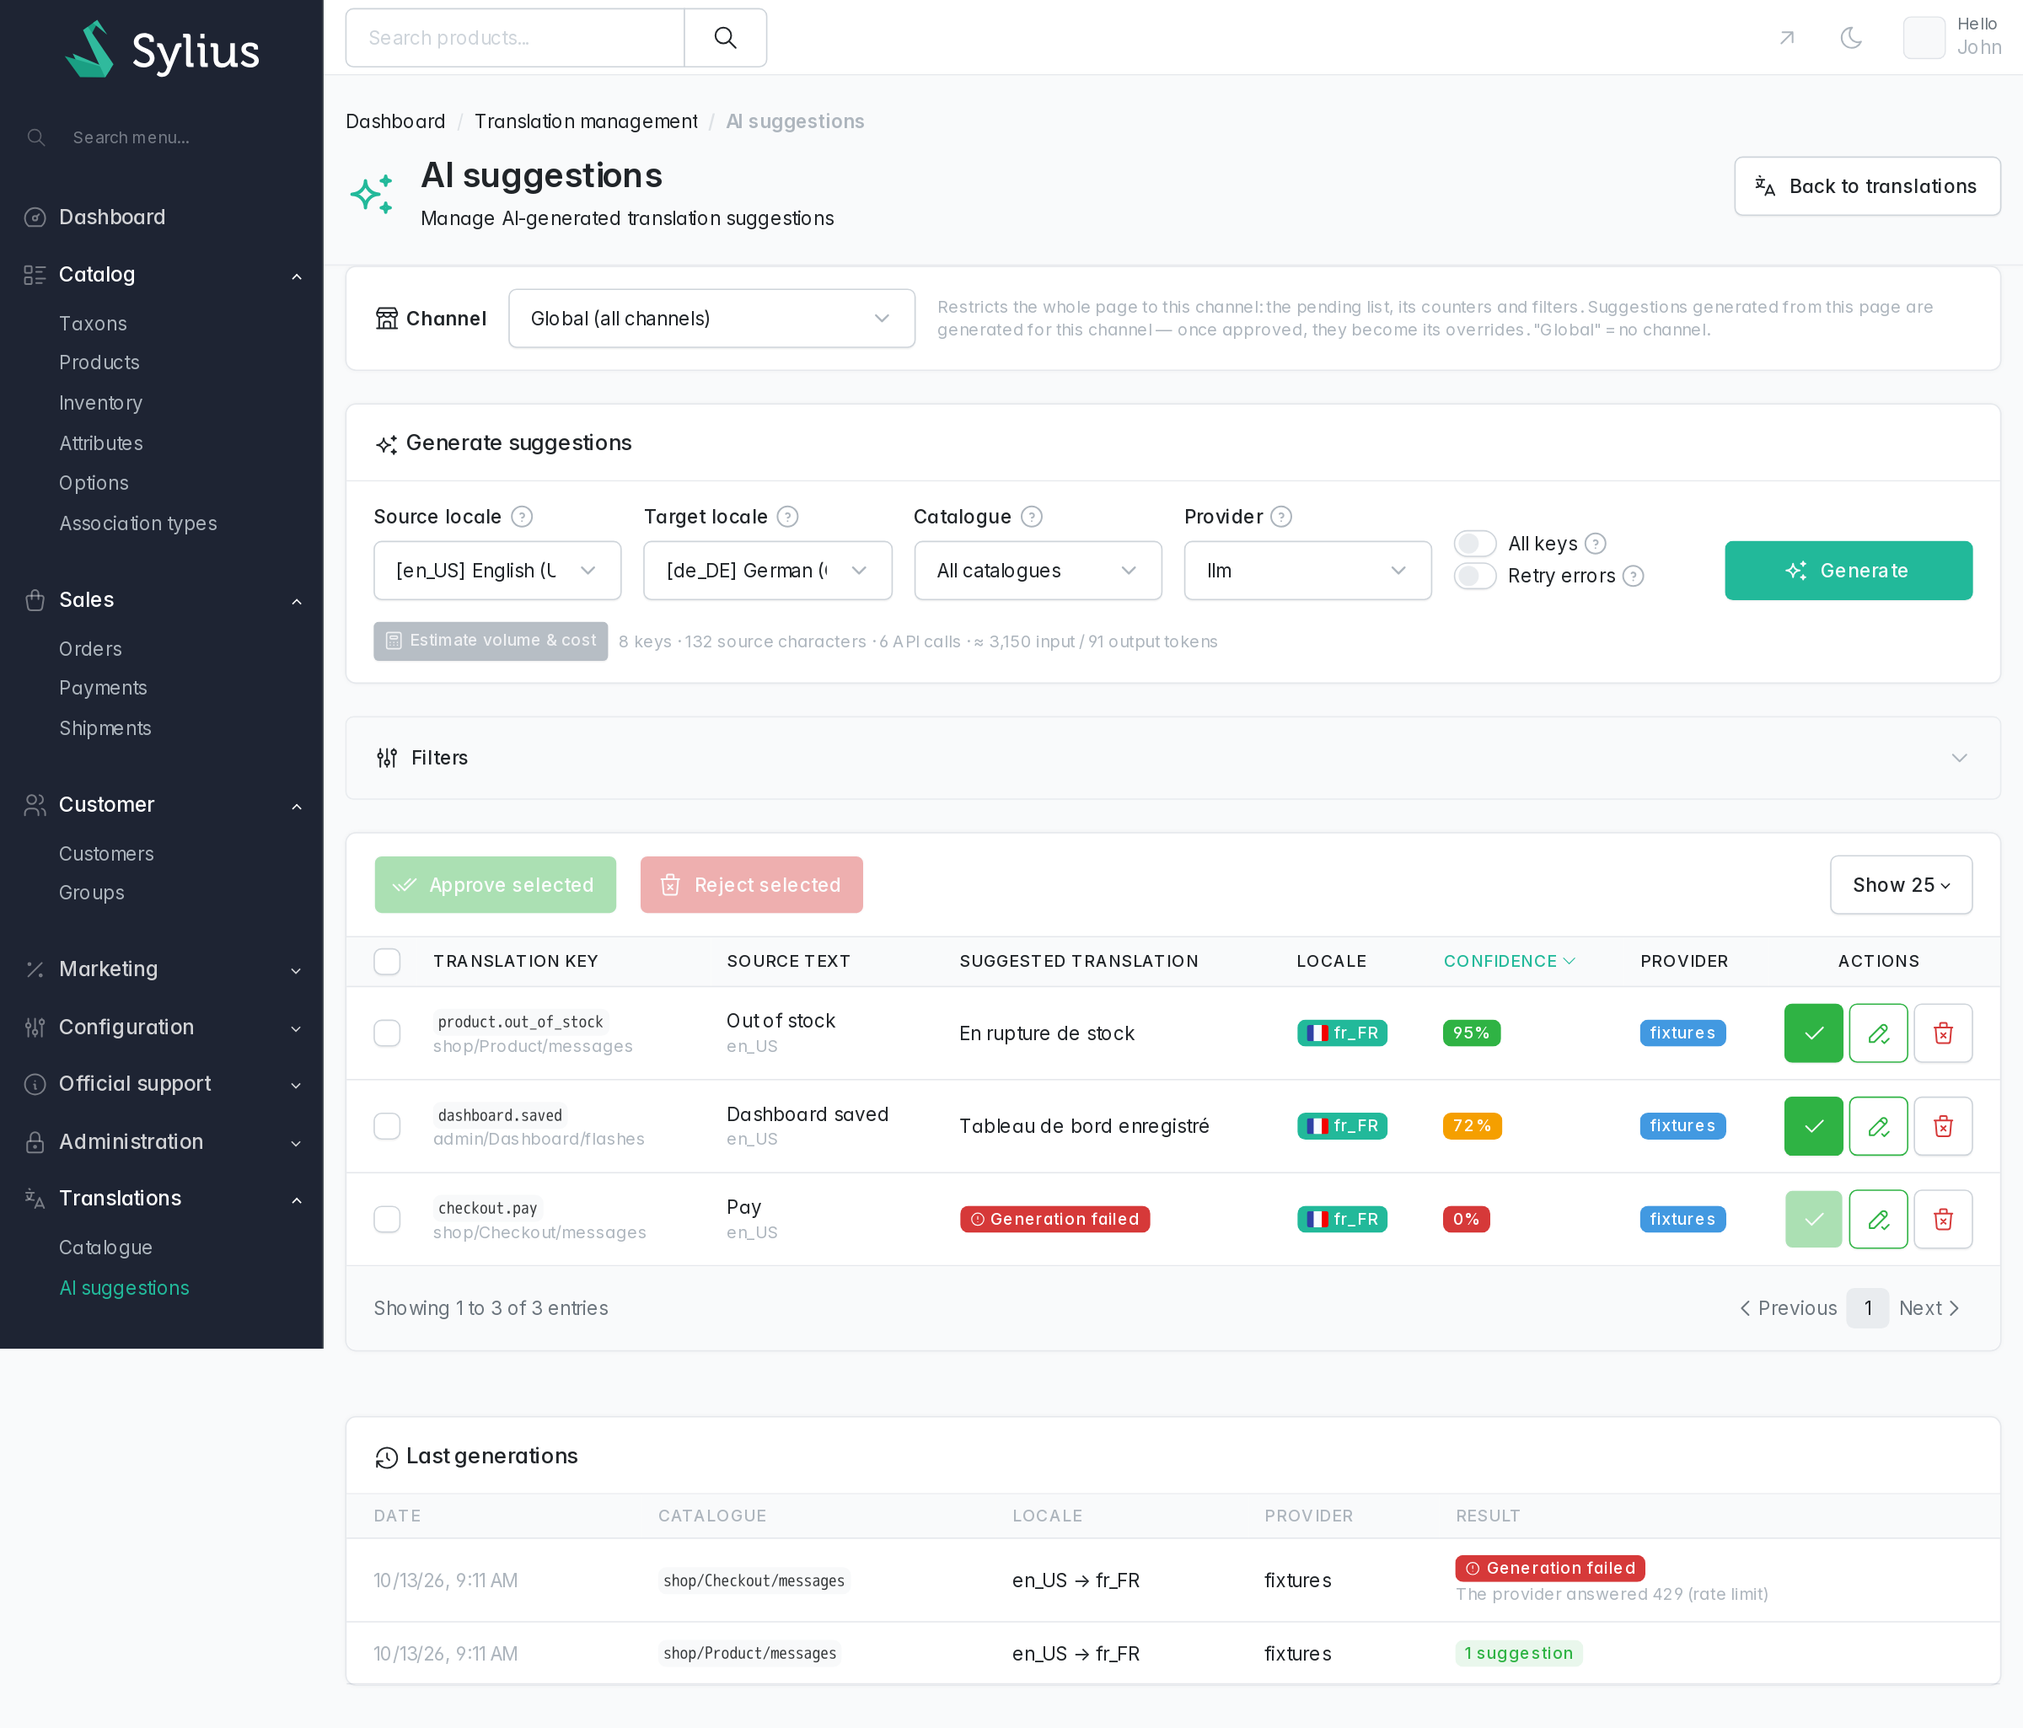
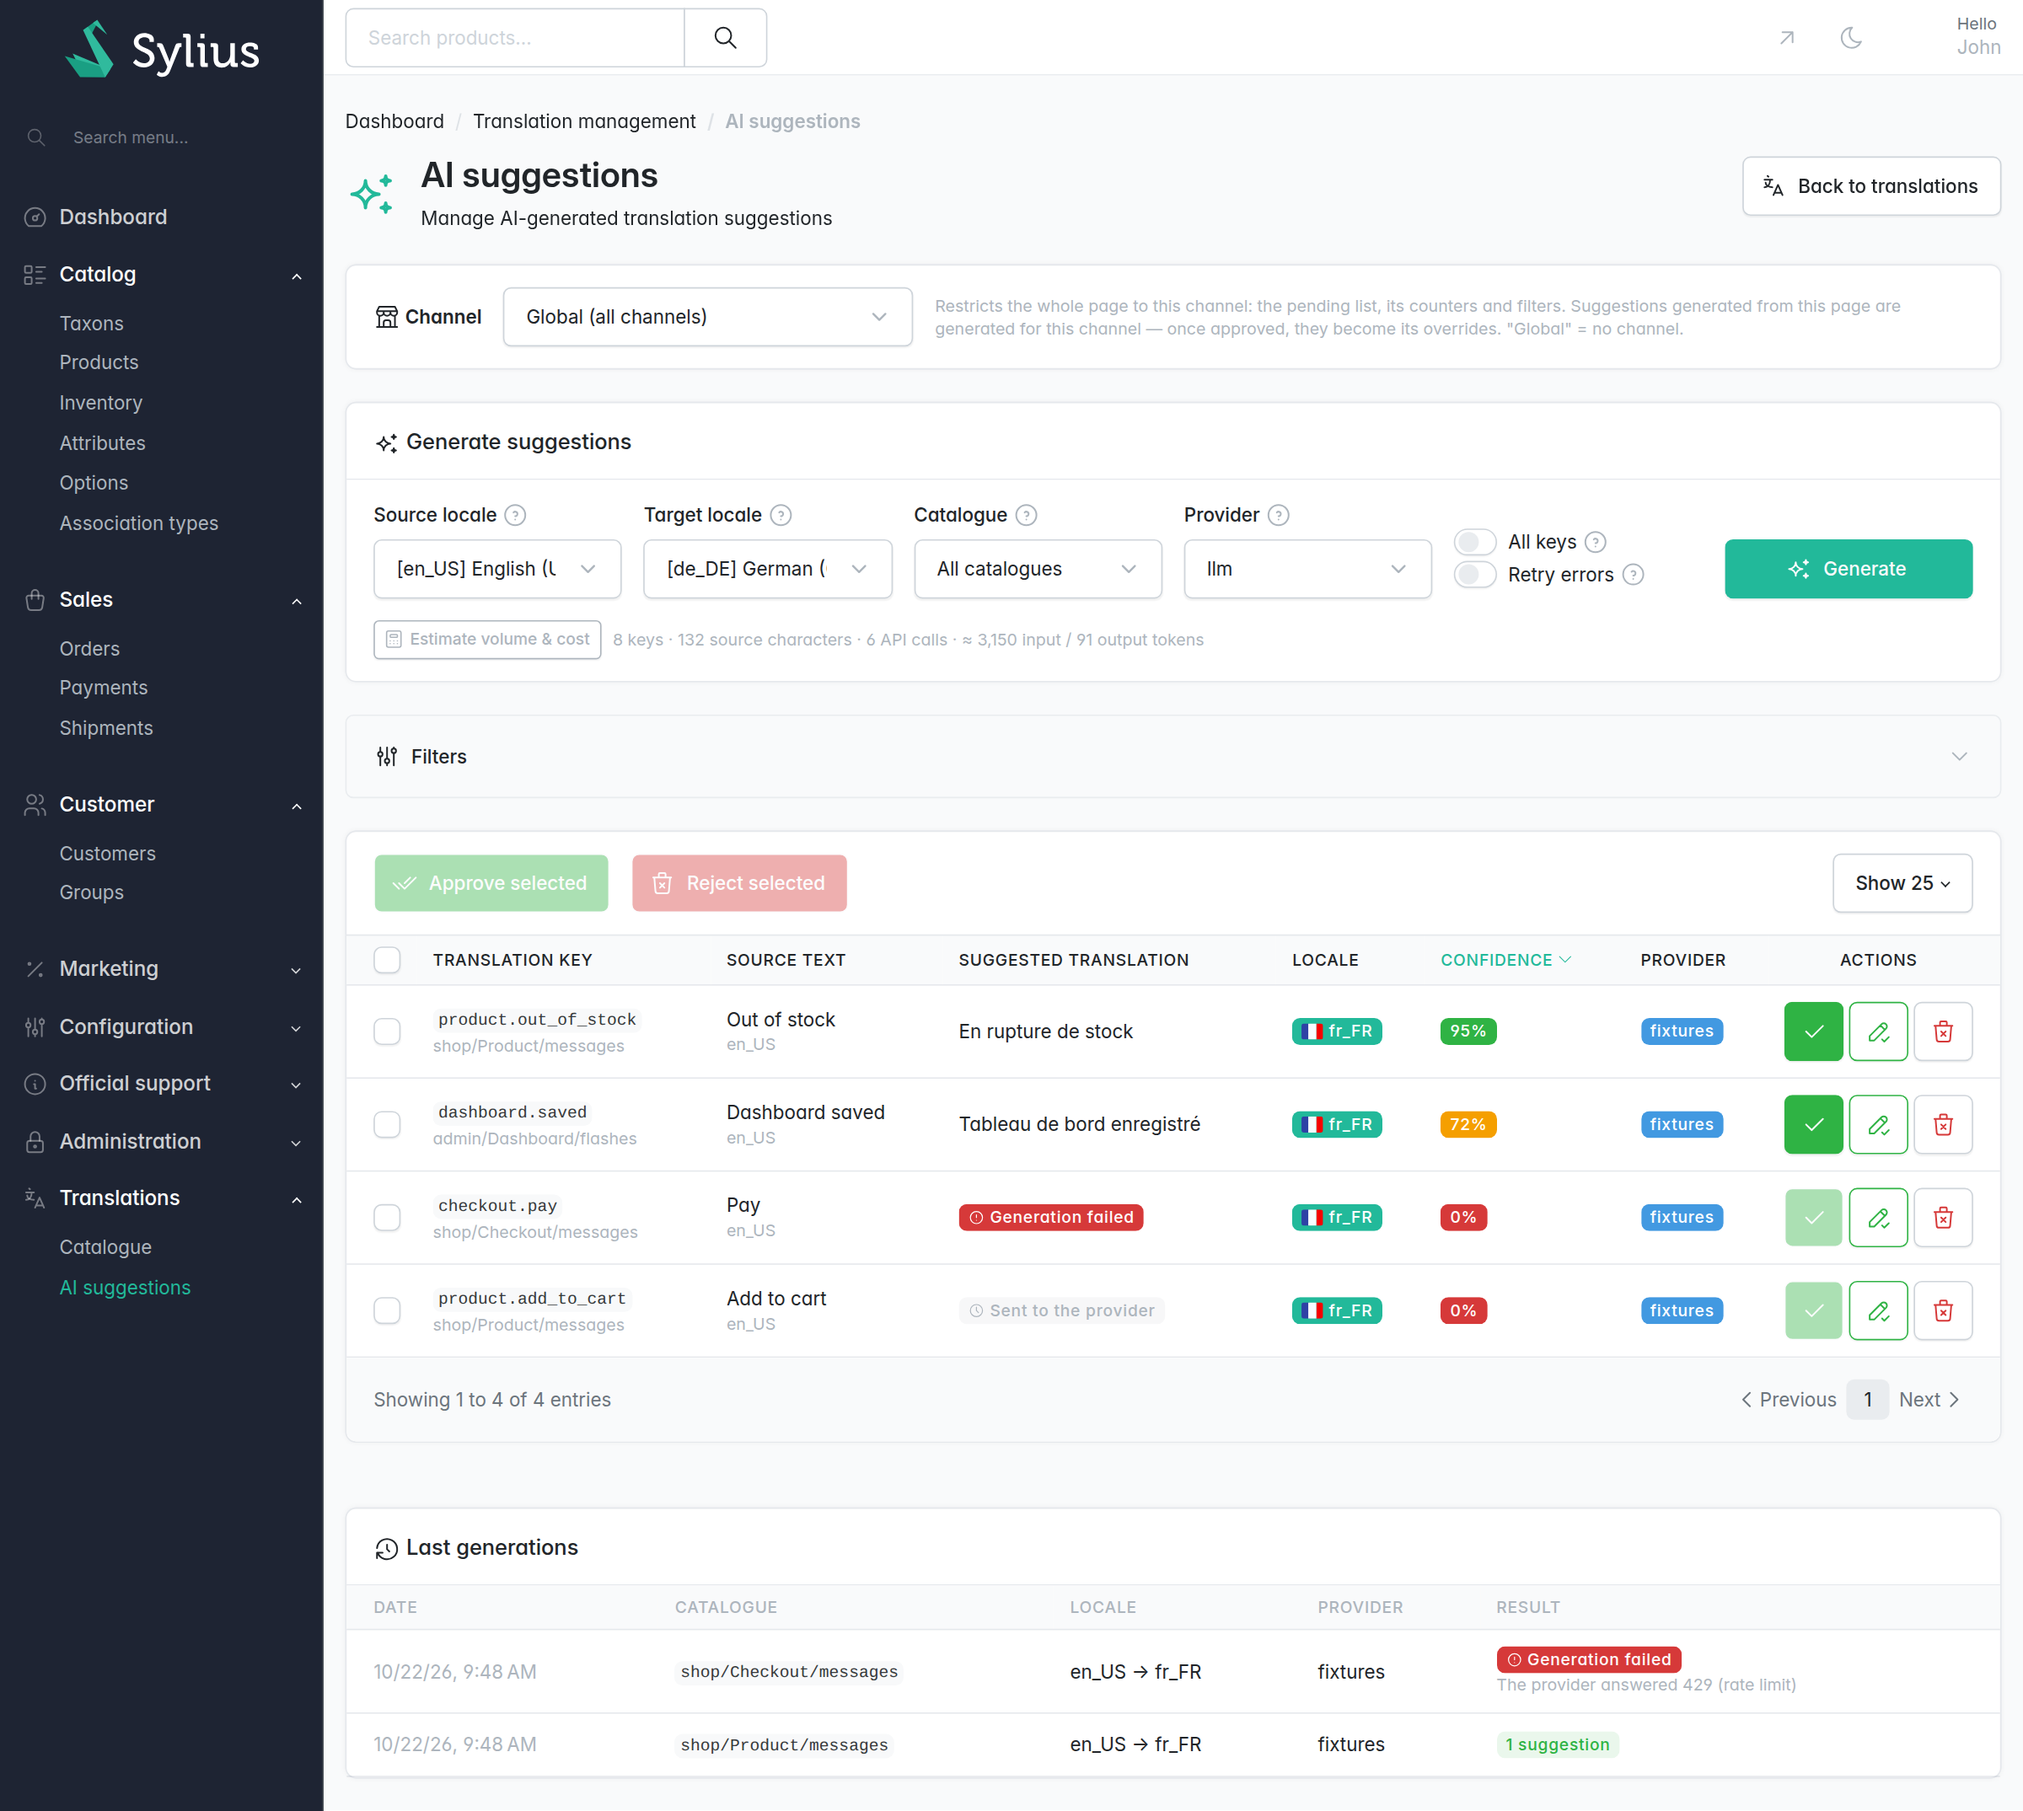
docs: show a suggestion still with the provider, and amend two decision records (#13)
- The README screenshot of the suggestions screen shows the "Sent to the provider" badge. The
  dev fixture takes an `in_flight` option to store such a row, as the engine does before calling
  the provider.
- A fact of an accepted record that changed since, the decision holding, is now corrected in
  place with an `Amended` line. Records 0014 (the engine now caches the parsed files across
  requests and reads a view's overrides at once) and 0025 (the engine no longer stores a failed
  run under a deleted channel) are amended so.

diff --git a/tests/TestApplication/src/Fixture/AiTranslationFixture.php b/tests/TestApplication/src/Fixture/AiTranslationFixture.php
@@ -39,7 +39,7 @@ final class AiTranslationFixture extends AbstractFixture
      * @param array{
      *     contexts: array<string, string>,
      *     overrides: list<array{key: string, catalogue: string, locale: string, value: string, channel: string}>,
-     *     suggestions: list<array{key: string, catalogue: string, locale: string, value: ?string, channel: string, confidence: float, error: ?string}>,
+     *     suggestions: list<array{key: string, catalogue: string, locale: string, value: ?string, channel: string, confidence: float, error: ?string, in_flight: bool}>,
      *     runs: list<array{catalogue: string, locale: string, channel: string, created: int, error: ?string}>,
      * } $options
      */
@@ -63,6 +63,15 @@ final class AiTranslationFixture extends AbstractFixture
         foreach ($options['suggestions'] as $suggestion) {
             $source = $this->translationManager->getOriginalValue($suggestion['key'], $suggestion['catalogue'], self::SOURCE_LOCALE) ?? $suggestion['key'];
             $scope = $this->scope($suggestion['channel']);
+
+            if ($suggestion['in_flight']) {
+                // What the engine stores before calling the provider: an errored row, marked in flight.
+                $reserved = TranslationSuggestion::failed($suggestion['key'], $suggestion['catalogue'], $suggestion['locale'], $source, self::SOURCE_LOCALE, self::PROVIDER, 'Interrupted before the reply was stored', $scope);
+                $reserved->setMetadata(['in_flight' => (new \DateTimeImmutable())->format('Y-m-d\TH:i:s.uP')]);
+                $this->entityManager->persist($reserved);
+
+                continue;
+            }
 
             $this->entityManager->persist(null !== $suggestion['error']
                 ? TranslationSuggestion::failed($suggestion['key'], $suggestion['catalogue'], $suggestion['locale'], $source, self::SOURCE_LOCALE, self::PROVIDER, $suggestion['error'], $scope)
@@ -110,6 +119,7 @@ final class AiTranslationFixture extends AbstractFixture
                             ->scalarNode('channel')->defaultValue('')->end()
                             ->floatNode('confidence')->defaultValue(0.9)->end()
                             ->scalarNode('error')->defaultNull()->info('A failed generation: no value, the provider error instead')->end()
+                            ->booleanNode('in_flight')->defaultFalse()->info('Sent to the provider by a run that has not stored the reply yet')->end()
                         ->end()
                     ->end()
                 ->end()

diff --git a/docs/adr/0025-a-deleted-channel-takes-its-translations-along.md b/docs/adr/0025-a-deleted-channel-takes-its-translations-along.md
@@ -2,6 +2,7 @@
 
 - Status: accepted
 - Date: 2026-10-16
+- Amended: 2026-10-22, the engine no longer stores a failed run under a deleted channel
 - Supersedes: [0023](0023-deleted-channel-keeps-its-translations.md)
 
 ## Context
@@ -35,10 +36,9 @@ leaves the entity manager they share closed.
 
 - Deleting a channel deletes its translation work, which does not come back: an export of the
   channel's view, before the deletion, is the copy to keep.
-- A channel created again under the same code starts with no override and no suggestion, unless
-  a run of the deleted channel failed at the provider after the purge: the engine stores that
-  failure under the deleted code, which the new channel then finds unless the engine's command
-  purged it in between.
+- A channel created again under the same code starts with no override and no suggestion, even
+  when a run of the deleted channel failed at the provider after the purge: the engine stores no
+  failure under a channel that no longer exists.
 - The journal keeps the deleted channel's runs: it records what was paid for, and serves no
   translation; a channel created again under the same code lists them in its journal.
 - Whoever may delete a channel in Sylius deletes its translation work, without any permission of

diff --git a/README.md b/README.md
@@ -19,7 +19,7 @@ per-channel context for the AI, under human review, always.
       <br><sub><b>Translation management</b>: channel selector, coverage per locale, catalogue browsing, overrides of the channel or inherited from the global ones</sub>
     </td>
     <td width="50%" align="center" valign="top">
-      <a href="docs/assets/admin-suggestions.png"><img src="docs/assets/admin-suggestions.png" alt="AI suggestions screen: generation form with its volume estimate, pending suggestions to approve, edit or reject - a failed generation among them - and the journal of the last runs" width="100%"></a>
+      <a href="docs/assets/admin-suggestions.png"><img src="docs/assets/admin-suggestions.png" alt="AI suggestions screen: generation form with its volume estimate, pending suggestions to approve, edit or reject - a failed generation and one still with the provider among them - and the journal of the last runs" width="100%"></a>
       <br><sub><b>AI suggestions</b>: generation with a volume estimate, human review of the pending suggestions, journal of the last runs</sub>
     </td>
   </tr>

diff --git a/docs/adr/0014-no-plugin-side-cache-of-catalogue-rows.md b/docs/adr/0014-no-plugin-side-cache-of-catalogue-rows.md
@@ -2,12 +2,15 @@
 
 - Status: accepted
 - Date: 2026-10-13
+- Amended: 2026-10-22, the context describes the engine as it was then
 
 ## Context
 
-The catalogue screen costs what the engine costs: for each page, every translation file of the
-view is parsed again (the engine caches them per process, not across requests) and each catalogue
-is read with queries of its own.
+The catalogue screen costs what the engine costs. When this was decided, every translation file
+of the view was parsed again for each page (the engine cached them per process, not across
+requests) and each catalogue was read with queries of its own. The engine has since moved both
+levers named below: it keeps the parsed files in a cache pool across requests, and reads the
+overrides of a whole view at once.
 
 ## Decision
 

diff --git a/docs/adr/README.md b/docs/adr/README.md
@@ -1,7 +1,9 @@
 # Architecture decision records
 
 One file per decision: its context, what was decided, what follows from it. A decision is not
-edited once accepted: a new record supersedes it, and the old one says so in its status.
+edited once accepted: a new record supersedes it, and the old one says so in its status. A fact
+of its context or consequences that changed since, the decision holding, is corrected in place,
+with an `Amended` line under the date saying what changed.
 
 A record holds the decision and its reasons, which do not move with the code. It names what the
 decision is about (a bus, a priority, a status code), nothing else of the code. What moves with
